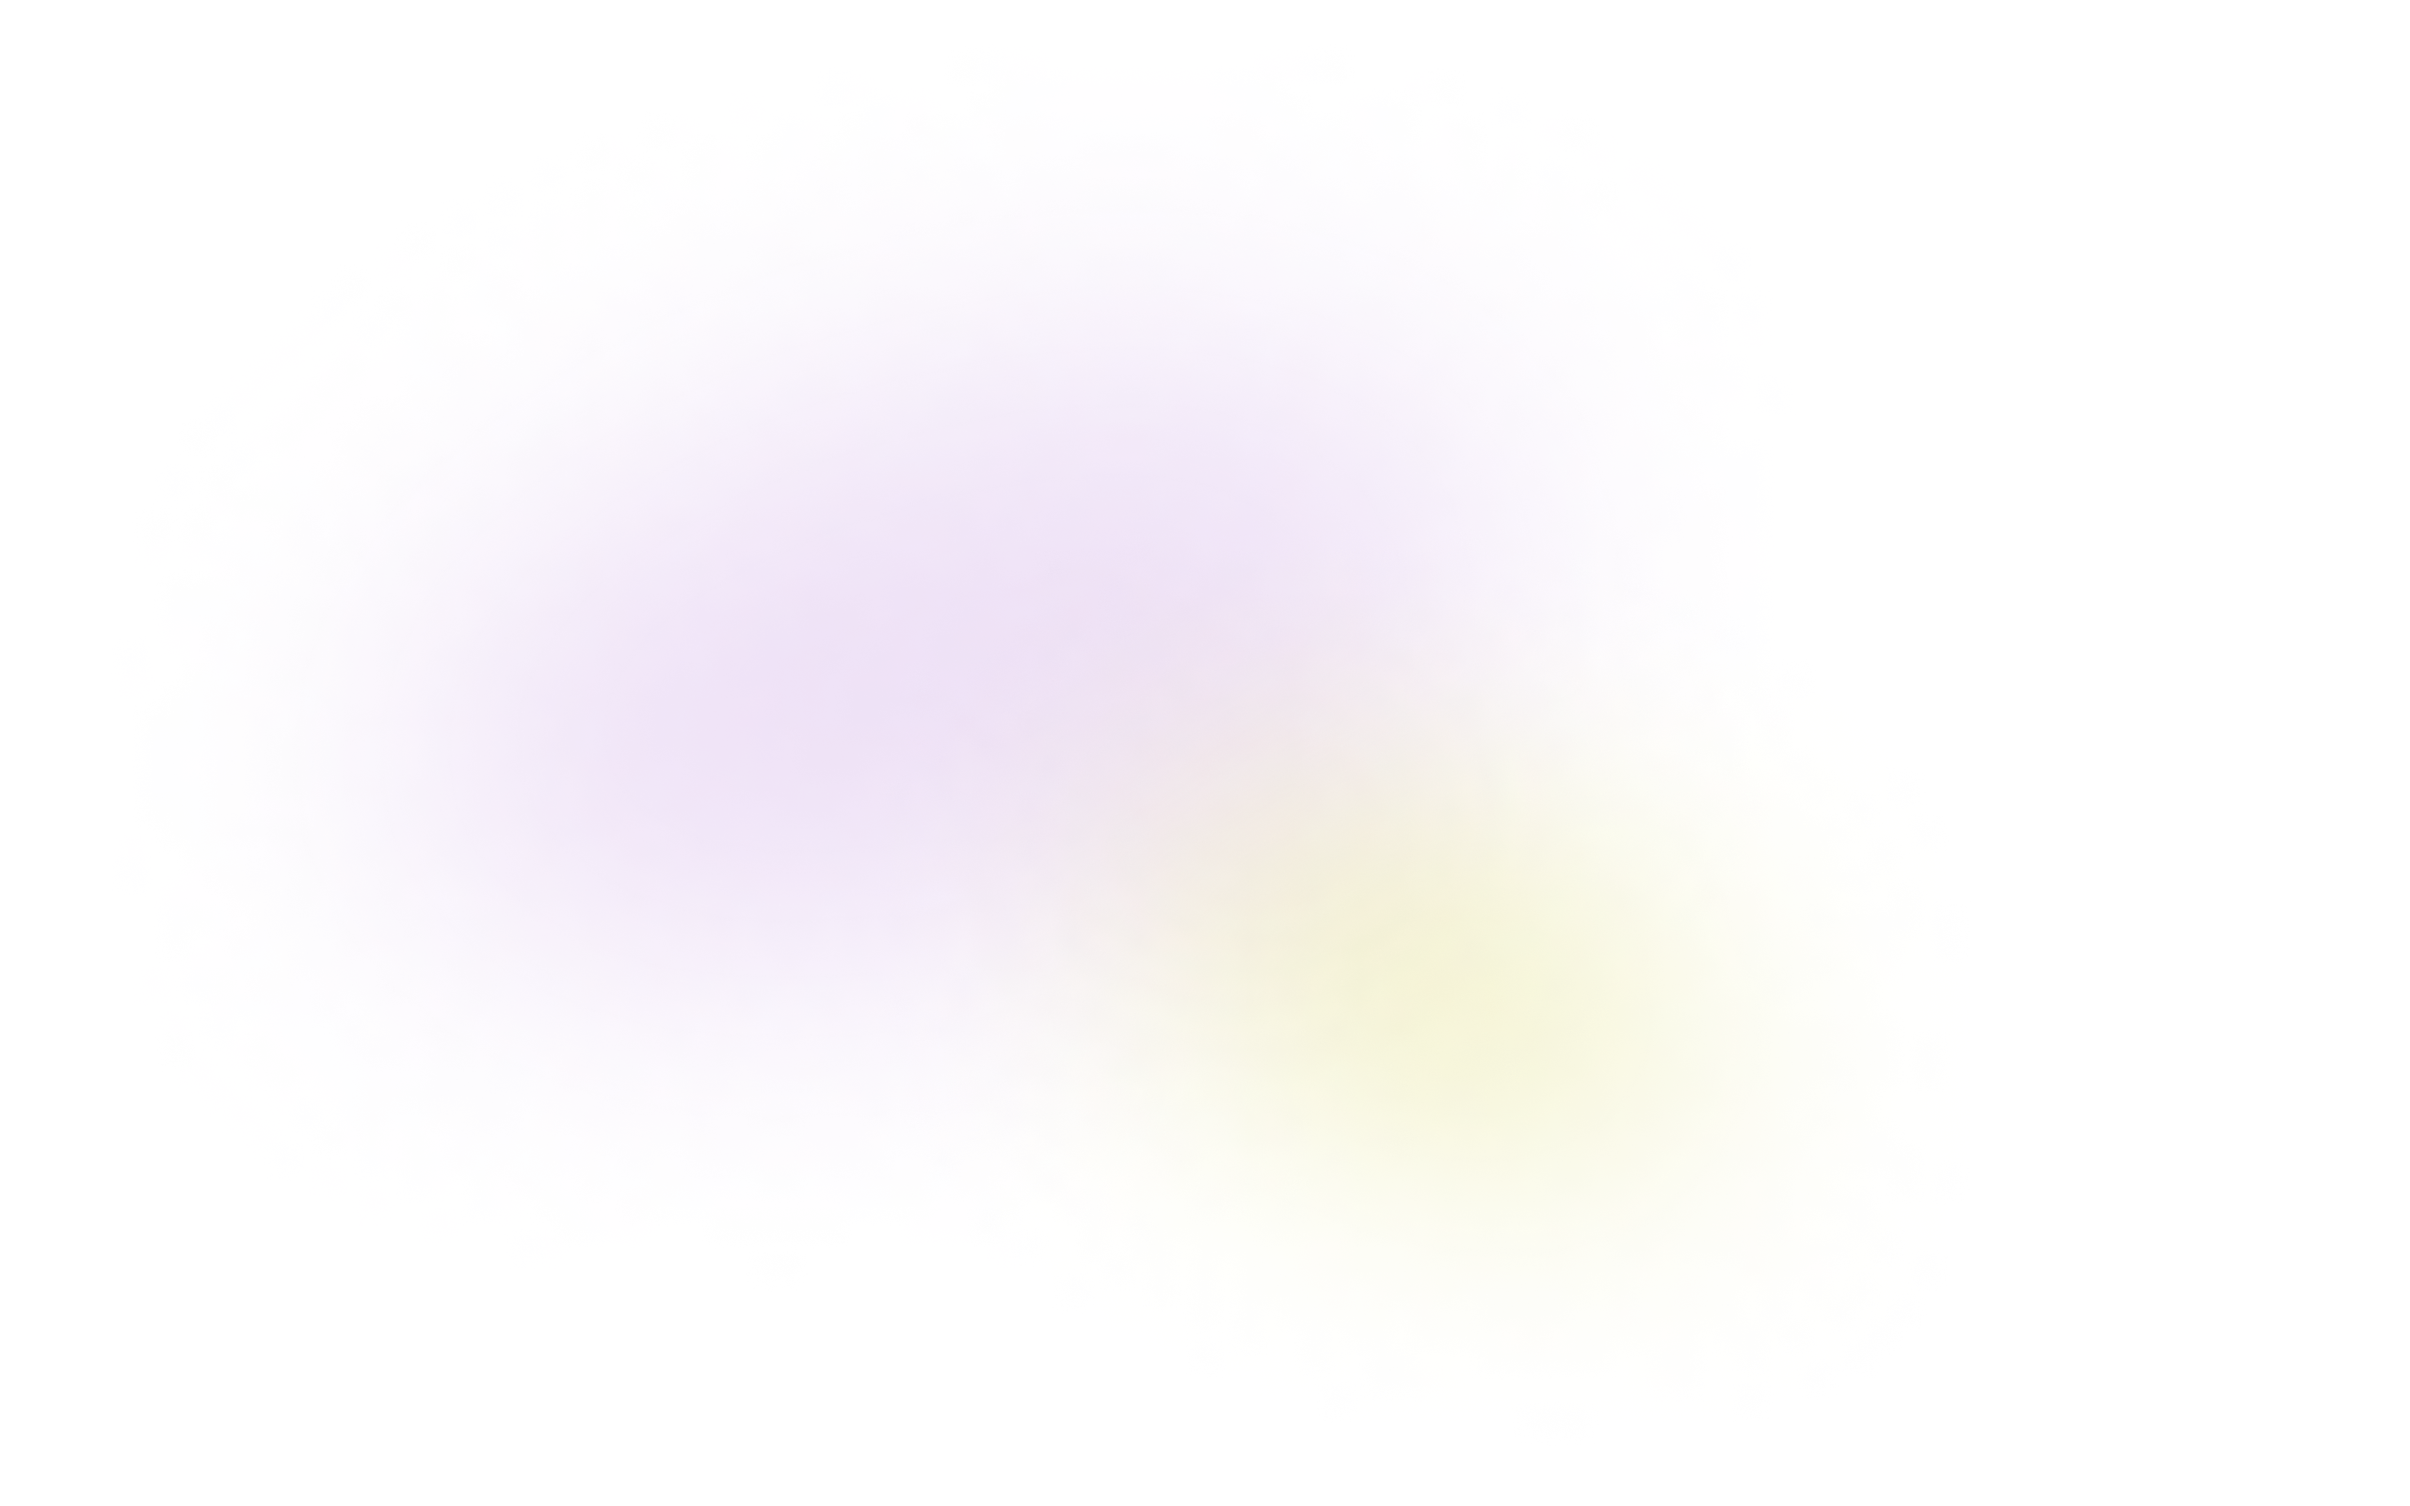
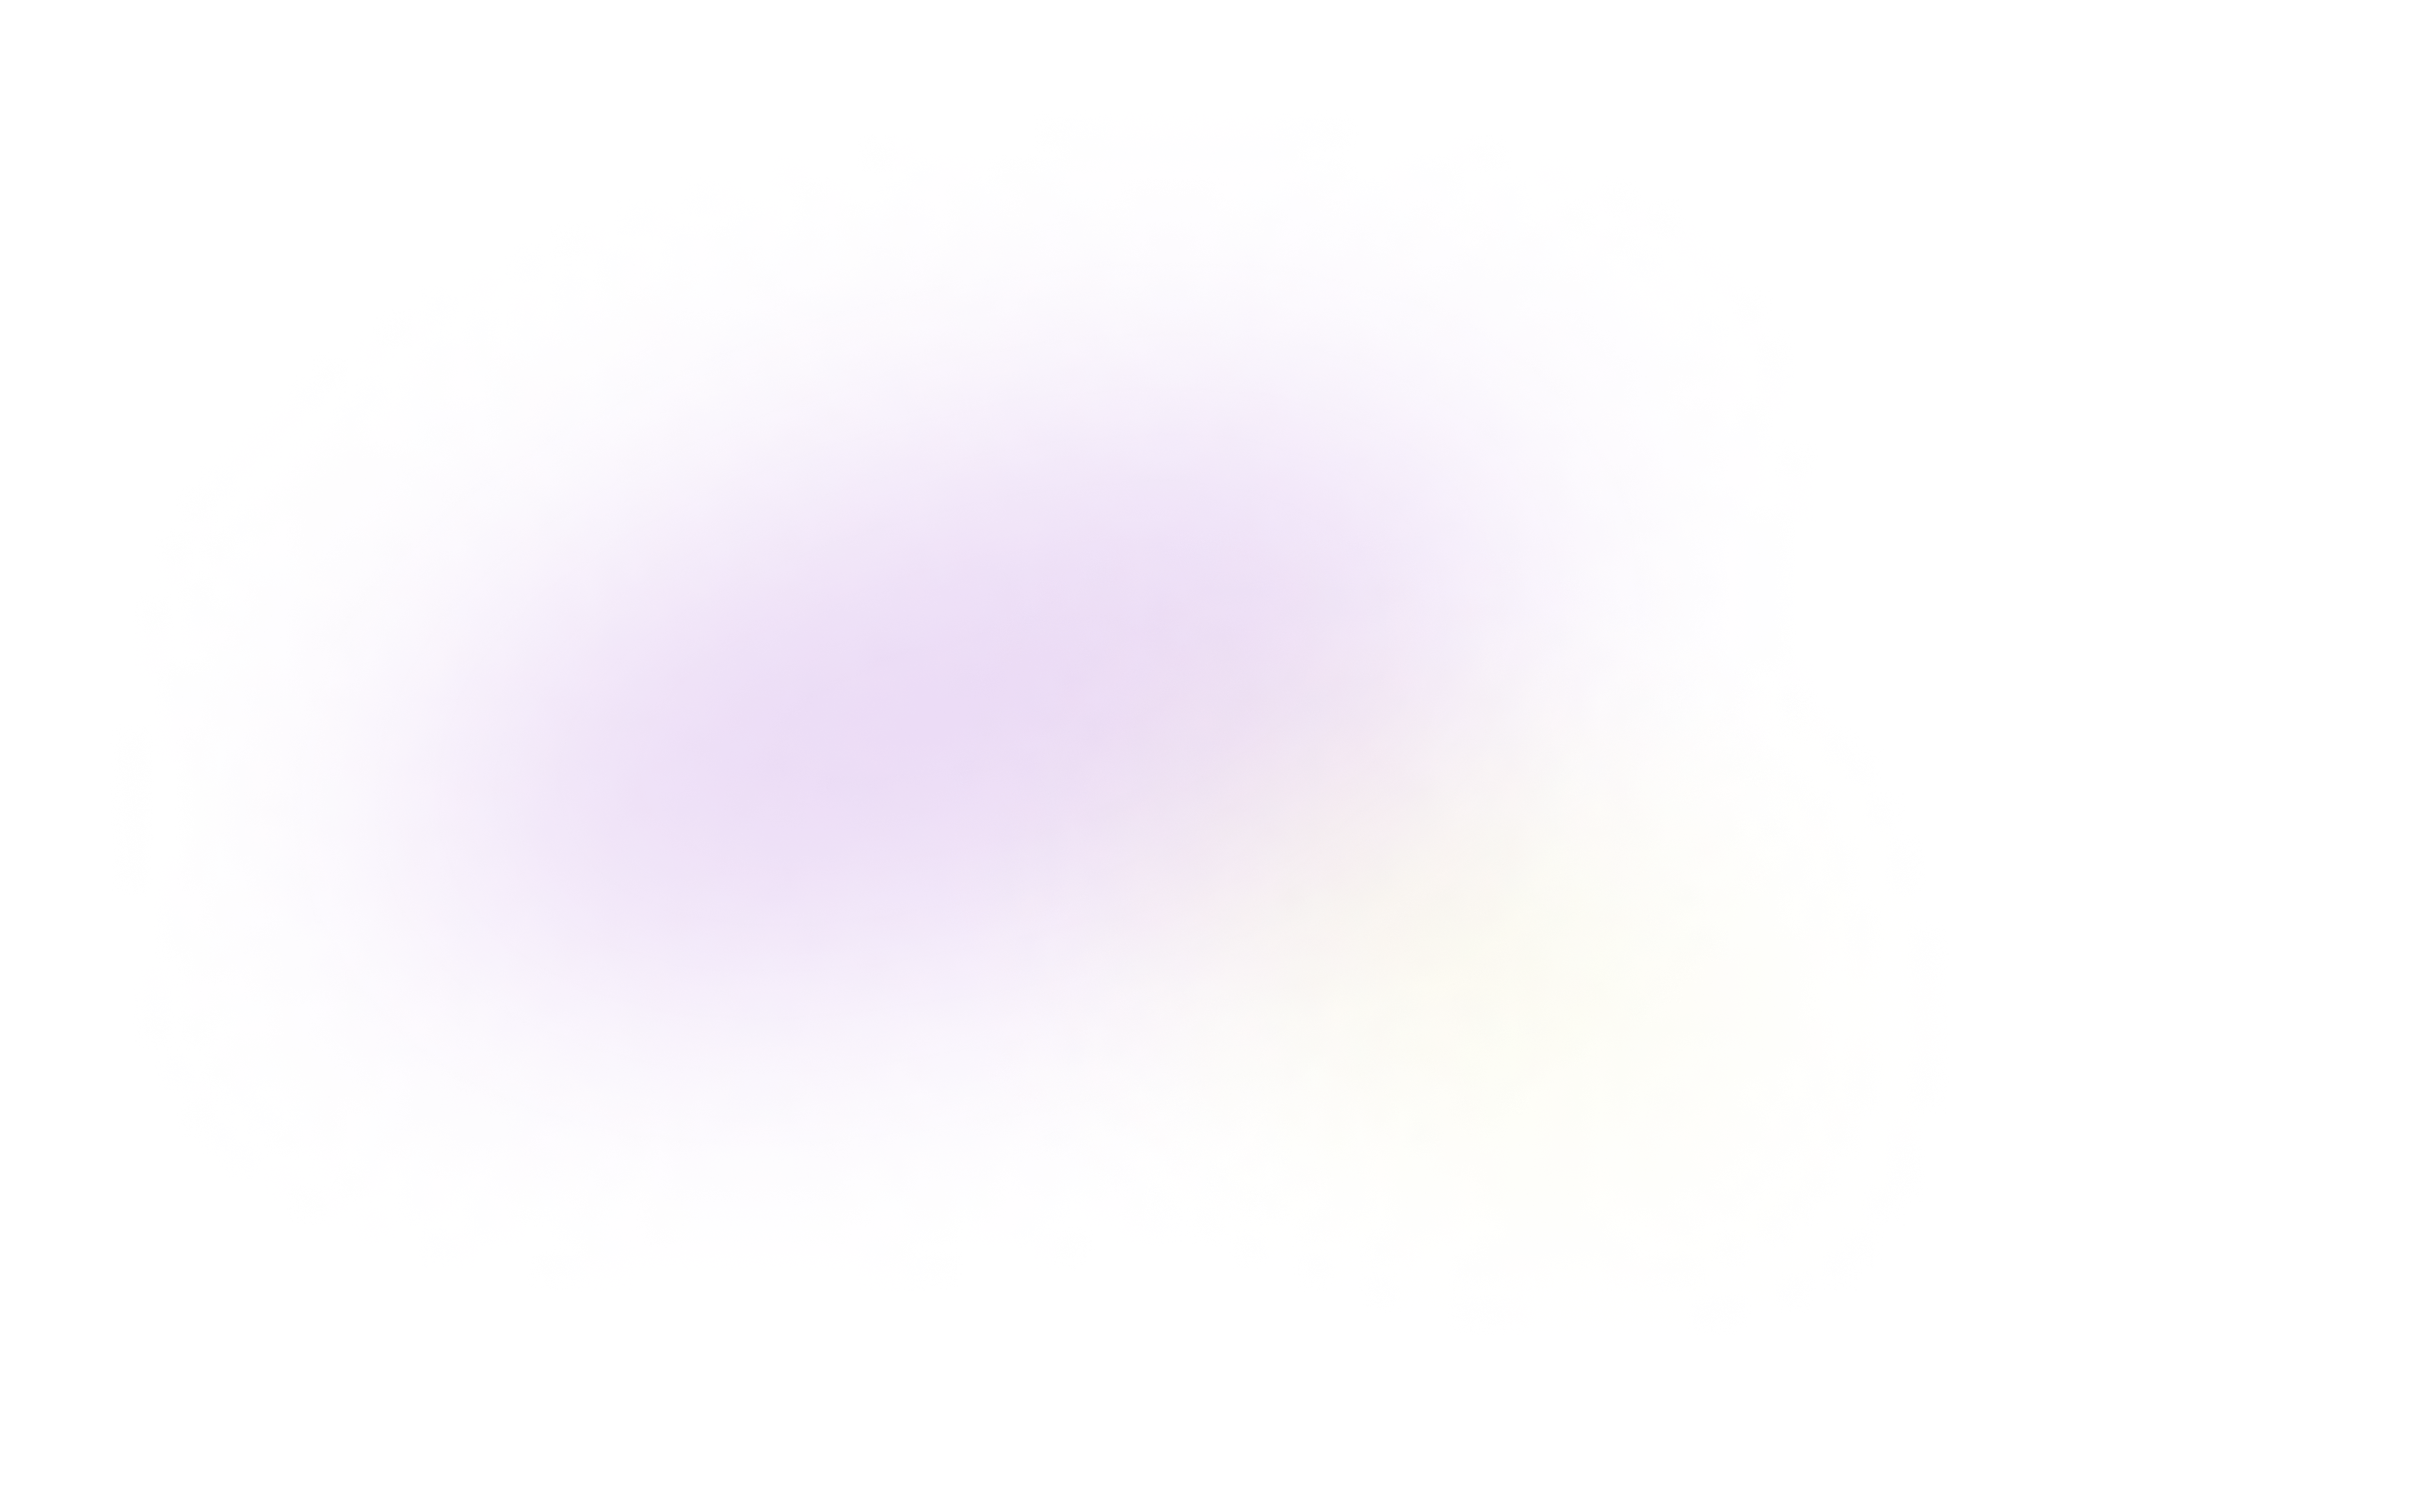
Updating cover bg

Changed region(s): [[0.5312, 0.5938, 0.6562, 0.75]]

diff --git a/src/App.css b/src/App.css
@@ -1,64 +1,62 @@
 #header {
-	display: flex;
-	flex-direction: row;
-	justify-content: space-between;
-	position: sticky;
-	align-items: center;
-	top: 0;
-	z-index: 50;
-	height: 70px;
-	margin-bottom: -70px;
+  display: flex;
+  flex-direction: row;
+  justify-content: space-between;
+  position: sticky;
+  align-items: center;
+  top: 0;
+  z-index: 50;
+  height: 70px;
+  margin-bottom: -70px;
 
-	nav {
-		display: flex;
-		flex-direction: row;
-		column-gap: 40px;
-		align-items: center;
+  nav {
+    display: flex;
+    flex-direction: row;
+    column-gap: 40px;
+    align-items: center;
 
-		p {
-			position: relative;
+    p {
+      position: relative;
 
-			::after {
-				display: block;
-				width: 100%;
-				height: 2px;
-				content: " ";
-				bottom: -20px;
-				background-color: var(--text-accent);
-				width: 0;
-				transition: 0.2s ease-in-out;
-				position: absolute;
-				bottom: -4px;
-			}
+      ::after {
+        display: block;
+        width: 100%;
+        height: 2px;
+        content: " ";
+        bottom: -20px;
+        background-color: var(--text-accent);
+        width: 0;
+        transition: 0.2s ease-in-out;
+        position: absolute;
+        bottom: -4px;
+      }
 
-			&.current,
-			&:hover {
-				::after {
-					width: 100%;
-				}
-			}
-		}
-	}
+      &.current,
+      &:hover {
+        ::after {
+          width: 100%;
+        }
+      }
+    }
+  }
 }
 
-
 #intro {
-	.bg {
-		position: absolute;
-		top: 0;
-		left: 0;
-		z-index: -10;
-		width: 100%;
-		height: calc(100vh + 50vh);
-		position: absolute;
-		background-image: url('./../public/bg.png');
-		background-size: cover;
-		background-repeat: no-repeat;
-		overflow: visible;
-		background-position: -20vw center;
-		opacity: var(--opacity);
-	}
-	
+  .bg {
+	transform: translateY(10vh);
+    background-image: url("./../public/bg.png");
+    top: 0;
+    left: 0;
+    z-index: -10;
+    width: 100%;
+    height: 110vh;
+    position: absolute;
+    background-size: cover;
+    background-repeat: no-repeat;
+    overflow: visible;
+    background-position: center;
+    opacity: var(--opacity);
+  }
 
   h1 {
     line-height: 1.15;

diff --git a/src/Sections/Intro.js b/src/Sections/Intro.js
@@ -55,12 +55,12 @@ const Intro = () => {
           >
             <h3 className="font-semibold text-small small-caps">Contact</h3>
             <p link="/contact" className="uppercase text-small small-caps">
-              <a href="mailto:maureen@studio-maureen.com">Email us </a>
+              <a href="mailto:maureen@studio-maureen.com" >Email us </a>
               <ClipboardIcon className="size-3 inline ml-1 mb-1" />
             </p>
 
             <p className="uppercase text-small small-caps">
-              <a target="_blank" href="http://instagram.com/studio__maureen">
+              <a target="_blank" href="http://instagram.com/studio__maureen" rel="noreferrer">
                 @Studio__Maureen
               </a>{" "}
               <ArrowUpRightIcon className="size-3 inline ml-1 mb-1" />
